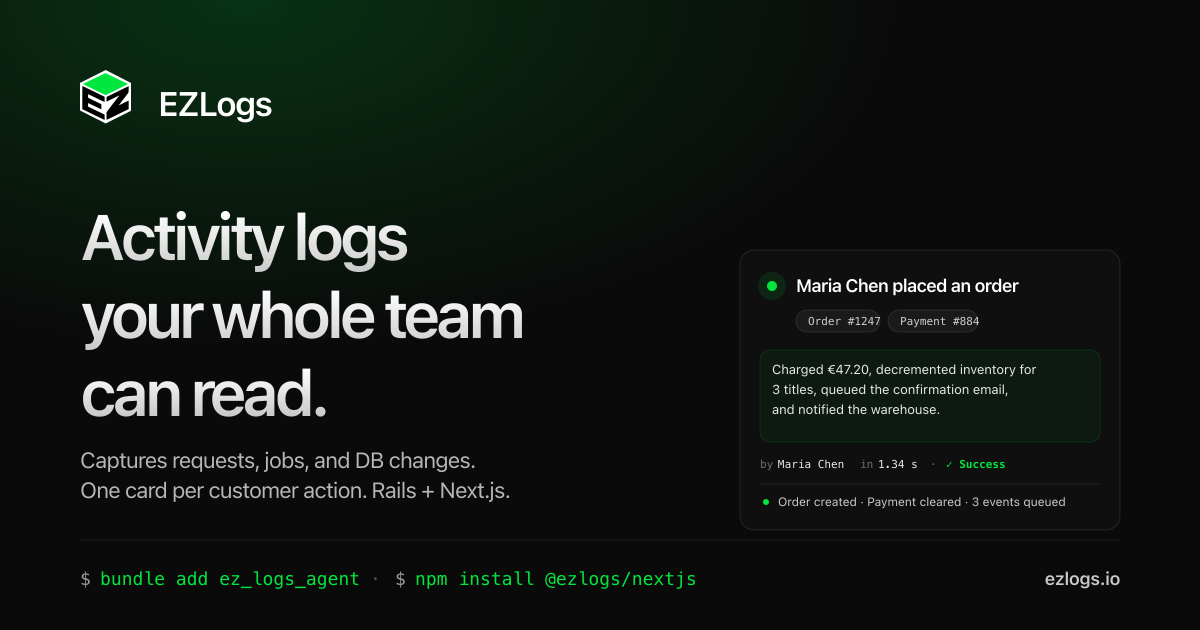
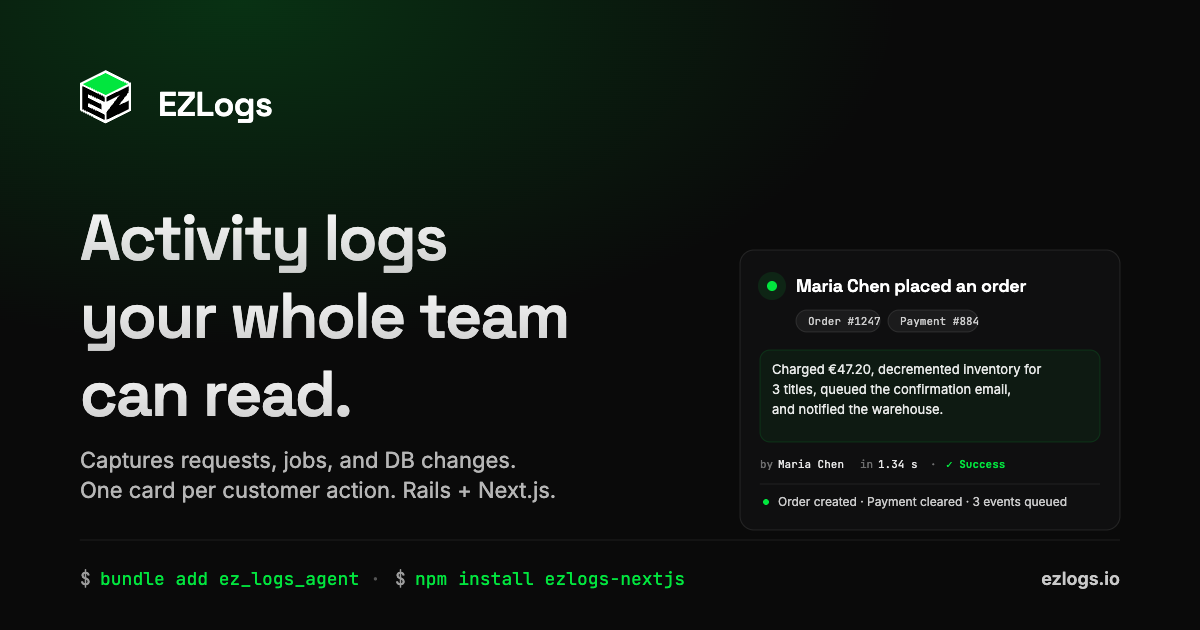
site: publish 2026-11-16 22:21 UTC

diff --git a/index.html b/index.html
@@ -140,7 +140,7 @@
         "name": "What languages and frameworks are supported today?",
         "acceptedAnswer": {
           "@type": "Answer",
-          "text": "Ruby on Rails (Sidekiq, ActiveJob, ActiveRecord) and Next.js (App Router, Pages Router, Server Actions, Prisma, Drizzle, supabase-js, BullMQ, Inngest, Trigger.dev, Upstash, Supabase Queues). FastAPI is next."
+          "text": "Ruby on Rails (Sidekiq, ActiveJob, ActiveRecord) and Next.js (App Router, Pages Router, Server Actions, Prisma, Drizzle, supabase-js, BullMQ, Inngest, Trigger.dev, Upstash, Supabase Queues)."
         }
       },
       {
@@ -156,7 +156,7 @@
         "name": "Is the AI explanation accurate?",
         "acceptedAnswer": {
           "@type": "Answer",
-          "text": "The AI only writes sentences using the structured events your app actually sent. It never invents data. If it doesn't know, it says so. Every generated explanation is cached and reproducible — re-running the same action produces the same words."
+          "text": "The cards, titles, and timeline are built without AI. AI is optional and only writes the extra explanation, using the structured events your app actually sent. It never invents data. If it doesn't know, it says so. Every generated explanation is cached and reproducible — re-running the same action produces the same words."
         }
       },
       {
@@ -1275,7 +1275,7 @@
         </div>
 
         <ol class="ez-ba__events">
-          <li class="http"><time>14:02:11</time> <strong>POST /orders</strong> <em>— 200, 89 ms</em></li>
+          <li class="http"><time>14:02:11</time> <strong>POST /orders</strong> <em>— 302, 89 ms</em></li>
           <li class="db"><time>14:02:11</time> <strong>Order #1247</strong> created</li>
           <li class="db"><time>14:02:11</time> <strong>Order Item &times;3</strong> created</li>
           <li class="job"><time>14:02:12</time> <strong>ChargeCardJob</strong> started</li>
@@ -1336,7 +1336,7 @@
   <section class="section section--alt">
     <div class="section__inner">
       <div class="section__head">
-        <span class="section__eyebrow"><span class="num">02b</span>Connect your AI</span>
+        <span class="section__eyebrow"><span class="num">03</span>Connect your AI</span>
         <h2 class="section__title section__title--wide">Same activity log. The way each person reads it.</h2>
         <p class="section__sub">Your team reads the log on a page. Your AI reads it over MCP. Paste one URL into Claude Desktop, Cursor, Claude Code, or Codex, sign in once in the browser, and your AI now reads the same activity log your team trusts &mdash; same data, same answer, with citations.</p>
       </div>
@@ -1355,9 +1355,9 @@
   <section class="section">
     <div class="section__inner">
       <div class="section__head">
-        <span class="section__eyebrow"><span class="num">02c</span>Proof</span>
+        <span class="section__eyebrow"><span class="num">04</span>Proof</span>
         <h2 class="section__title section__title--wide">This is what your team sees on day one.</h2>
-        <p class="section__sub">Six real screens from a real company ("ACME-INC") after one week of using EZLogs. No mockups, no marketing edits &mdash; this is the product.</p>
+        <p class="section__sub">Six screens from a working EZLogs account ("ACME-INC") after one week of use. No mockups, no marketing edits &mdash; this is the product.</p>
       </div>
 
       <div class="proof">
@@ -1434,7 +1434,7 @@
   <section class="section section--alt">
     <div class="section__inner">
       <div class="section__head">
-        <span class="section__eyebrow"><span class="num">02d</span>Ask your product</span>
+        <span class="section__eyebrow"><span class="num">05</span>Ask your product</span>
         <h2 class="section__title section__title--wide">Ask once. It watches the answer for you.</h2>
         <p class="section__sub">Pin a question in plain English &mdash; no metric to name, no query to write, no threshold to set. EZLogs watches the real events and tells you the moment the answer changes, with the evidence one click away. Everyone gets the answer they care about, on their own channel.</p>
       </div>
@@ -1706,7 +1706,7 @@
   <section class="section" id="action">
     <div class="section__inner">
       <div class="section__head">
-        <span class="section__eyebrow"><span class="num">03</span>The product</span>
+        <span class="section__eyebrow"><span class="num">06</span>The product</span>
         <h2 class="section__title section__title--wide">This is one customer placing an order.</h2>
         <p class="section__sub">Read it top to bottom. No log files, no grepping, no engineers needed. The live card below is real product UI.</p>
       </div>
@@ -2099,7 +2099,7 @@
         <span class="ez-details-label-open">Hide events</span>
       </summary>
       <ol class="ez-events">
-        <li class="is-http"><time>14:02:11.083</time> <strong>POST /orders</strong> <em>— 200, 89 ms, Maria Chen</em></li>
+        <li class="is-http"><time>14:02:11.083</time> <strong>POST /orders</strong> <em>— 302, 89 ms, Maria Chen</em></li>
         <li class="is-db"><time>14:02:11.087</time> <strong>Order #1247</strong> created <em>— status: <code>pending</code></em></li>
         <li class="is-db"><time>14:02:11.089</time> <strong>Order Item &times;3</strong> created <em>— Snow Crash, Babel, A Wizard of Earthsea</em></li>
         <li class="is-db"><time>14:02:11.092</time> <strong>Cart #92</strong> emptied</li>
@@ -2124,7 +2124,7 @@
   <section class="section section--alt" id="install">
     <div class="section__inner">
       <div class="section__head">
-        <span class="section__eyebrow"><span class="num">04</span>Install</span>
+        <span class="section__eyebrow"><span class="num">07</span>Install</span>
         <h2 class="section__title section__title--narrow">Two stacks. One install.</h2>
         <p class="section__sub">Drop the agent in. Restart. Done. No per-route code, no SDK to learn.</p>
       </div>
@@ -2217,6 +2217,7 @@
     font-size: 11.5px;
     color: var(--faint);
   }
+  .ez-codeblock__head span:last-child { white-space: nowrap; }
   .ez-codeblock pre {
     margin: 0;
     font-family: var(--mono);
@@ -2242,6 +2243,12 @@
   .ez-tabs__caption strong {
     color: var(--text);
     font-weight: 600;
+  }
+  .ez-tabs__caption code {
+    font-family: var(--mono);
+    font-size: 12.5px;
+    color: var(--text);
+    white-space: nowrap;
   }
   .ez-tabs__more {
     margin-top: 20px;
@@ -2281,17 +2288,22 @@
   <!-- Ruby panel -->
   <div class="ez-tabs__panel ez-tabs__panel--ruby" role="tabpanel" aria-label="Ruby on Rails install">
     <div class="ez-codeblock">
-      <div class="ez-codeblock__head"><span>terminal</span><span>1 line</span></div>
-<pre><span class="o">$</span> <span class="k">bundle</span> <span class="p">add</span> <span class="v">ez_logs_agent</span></pre>
+      <div class="ez-codeblock__head"><span>terminal</span><span>2 lines</span></div>
+<pre><span class="o">$</span> <span class="k">bundle</span> <span class="p">add</span> <span class="v">ez_logs_agent</span>
+<span class="o">$</span> <span class="k">rails</span> <span class="p">generate</span> <span class="v">ez_logs_agent:install</span></pre>
     </div>
     <div class="ez-codeblock">
-      <div class="ez-codeblock__head"><span>config/initializers/ezlogs.rb</span><span>3 lines</span></div>
-<pre><span class="v">EzLogs</span>.<span class="k">configure</span> <span class="k">do</span> |c|
-  c.api_key = <span class="v">ENV</span>[<span class="s">"EZLOGS_API_KEY"</span>]
+      <div class="ez-codeblock__head"><span>config/initializers/ez_logs_agent.rb</span><span>4 lines</span></div>
+<pre><span class="v">EzLogsAgent</span>.<span class="k">configure</span> <span class="k">do</span> |config|
+  config.server_url = <span class="s">"https://app.ezlogs.io"</span>
+  config.project_token = <span class="s">"ezl_your_api_key_here"</span>
 <span class="k">end</span></pre>
     </div>
     <p class="ez-tabs__caption">
-      Auto-captures HTTP, <strong>Sidekiq / ActiveJob</strong>, and ActiveRecord changes. Zero per-controller code.
+      Auto-captures HTTP, <strong>Sidekiq / ActiveJob</strong>, ActiveRecord changes, and bulk SQL. Zero per-controller code.
+    </p>
+    <p class="ez-tabs__more">
+      <a href="https://github.com/dezsirazvan/ez_logs_agent" target="_blank" rel="noopener">Read the full Rails setup guide →</a>
     </p>
   </div>
 
@@ -2302,18 +2314,36 @@
 <pre><span class="o">$</span> <span class="k">npm</span> <span class="p">install</span> <span class="v">ezlogs-nextjs</span></pre>
     </div>
     <div class="ez-codeblock">
-      <div class="ez-codeblock__head"><span>next.config.ts</span><span>2 lines</span></div>
+      <div class="ez-codeblock__head"><span>instrumentation.ts</span><span>10 lines</span></div>
+<pre><span class="k">import</span> { ezlogs } <span class="k">from</span> <span class="s">"ezlogs-nextjs"</span>;
+
+<span class="k">export async function</span> <span class="g">register</span>() {
+  <span class="k">if</span> (process.env.NEXT_RUNTIME === <span class="s">"nodejs"</span>) {
+    ezlogs.<span class="g">init</span>({
+      serverUrl: process.env.EZLOGS_SERVER_URL!,
+      projectToken: process.env.EZLOGS_PROJECT_TOKEN!,
+    });
+  }
+}</pre>
+    </div>
+    <div class="ez-codeblock">
+      <div class="ez-codeblock__head"><span>next.config.mjs</span><span>3 lines</span></div>
 <pre><span class="k">import</span> { withEzlogsConfig } <span class="k">from</span> <span class="s">"ezlogs-nextjs/plugin"</span>;
-<span class="k">export default</span> <span class="g">withEzlogsConfig</span>({});</pre>
+<span class="k">const</span> nextConfig = { <span class="c">/* your options */</span> };
+<span class="k">export default</span> <span class="g">withEzlogsConfig</span>(nextConfig);</pre>
+    </div>
+    <div class="ez-codeblock">
+      <div class="ez-codeblock__head"><span>.env.local</span><span>2 lines</span></div>
+<pre><span class="v">EZLOGS_SERVER_URL</span>=https://app.ezlogs.io
+<span class="v">EZLOGS_PROJECT_TOKEN</span>=ezl_your_api_key_here</pre>
     </div>
     <p class="ez-tabs__caption">
-      Auto-captures <strong>HTTP, Server Actions, and Postgres changes</strong> (via triggers). Works with App Router, Pages Router, Turbopack, Webpack.
+      Auto-captures <strong>HTTP, Server Actions, and background jobs</strong>. For Postgres changes, run <code>npx ezlogs-nextjs install-triggers</code> once. Works with App Router, Pages Router, Turbopack, Webpack.
+    </p>
+    <p class="ez-tabs__more">
+      <a href="https://github.com/dezsirazvan/ez_logs_agent_nextjs" target="_blank" rel="noopener">Read the full Next.js setup guide →</a>
     </p>
   </div>
-
-  <p class="ez-tabs__more">
-    <a href="https://github.com/dezsirazvan/ez_logs_agent" target="_blank" rel="noopener">Read the full setup guide →</a>
-  </p>
 </div>
 </div>
     </div>
@@ -2323,7 +2353,7 @@
   <section class="section">
     <div class="section__inner">
       <div class="section__head">
-        <span class="section__eyebrow"><span class="num">05</span>Who it&rsquo;s for</span>
+        <span class="section__eyebrow"><span class="num">08</span>Who it&rsquo;s for</span>
         <h2 class="section__title section__title--wide">Built so anyone in your company can read it.</h2>
         <p class="section__sub">Engineers ship it. Founders, support, and PMs read it. One shared vocabulary for what the product is doing.</p>
       </div>
@@ -2448,7 +2478,7 @@
   <section class="section" id="faq">
     <div class="section__inner">
       <div class="section__head">
-        <span class="section__eyebrow"><span class="num">06</span>FAQ</span>
+        <span class="section__eyebrow"><span class="num">09</span>FAQ</span>
         <h2 class="section__title section__title--narrow">Questions, answered.</h2>
         <p class="section__sub">The things people actually ask. Click any to expand.</p>
       </div>
@@ -2592,7 +2622,7 @@
 
   <details>
     <summary>What languages and frameworks are supported today? <span class="ez-faq__plus" aria-hidden="true"></span></summary>
-    <p class="ez-faq__answer">Ruby on Rails (Sidekiq, ActiveJob, ActiveRecord) and Next.js (App Router, Pages Router, Server Actions, Prisma, Drizzle, supabase-js, BullMQ, Inngest, Trigger.dev, Upstash, Supabase Queues). FastAPI is next.</p>
+    <p class="ez-faq__answer">Ruby on Rails (Sidekiq, ActiveJob, ActiveRecord) and Next.js (App Router, Pages Router, Server Actions, Prisma, Drizzle, supabase-js, BullMQ, Inngest, Trigger.dev, Upstash, Supabase Queues).</p>
   </details>
 
   <details>
@@ -2602,7 +2632,7 @@
 
   <details>
     <summary>Is the AI explanation accurate? <span class="ez-faq__plus" aria-hidden="true"></span></summary>
-    <p class="ez-faq__answer">The AI only writes sentences using the structured events your app actually sent. It never invents data. If it doesn't know, it says so. Every generated explanation is cached and reproducible — re-running the same action produces the same words.</p>
+    <p class="ez-faq__answer">The cards, titles, and timeline are built without AI. AI is optional and only writes the extra explanation, using the structured events your app actually sent. It never invents data. If it doesn't know, it says so. Every generated explanation is cached and reproducible — re-running the same action produces the same words.</p>
   </details>
 
   <details>

diff --git a/nextjs/index.html b/nextjs/index.html
@@ -69,24 +69,39 @@
     <h2>What gets captured automatically</h2>
     <ul>
       <li><strong>HTTP routes</strong> (App Router + Pages Router) &mdash; method, path, status, duration, requesting user if your app exposes one.</li>
-      <li><strong>Server Actions</strong> &mdash; the action name, arguments, return value, success/failure.</li>
-      <li><strong>Postgres changes</strong> via lightweight database triggers &mdash; table, primary key, operation, redacted before/after column values. Works with Prisma, Drizzle, supabase-js, Kysely, raw SQL.</li>
+      <li><strong>Server Actions</strong> &mdash; the action name, arguments, success or failure.</li>
+      <li><strong>Postgres changes</strong> via lightweight database triggers &mdash; table, primary key, operation, redacted before/after column values. Works with Prisma, Drizzle, supabase-js, raw SQL.</li>
       <li><strong>Background jobs</strong> via instrumentation hooks for BullMQ, Inngest, Trigger.dev, Upstash QStash, Supabase Queues.</li>
     </ul>
 
     <h2>Install in 60 seconds</h2>
     <pre><code>npm install ezlogs-nextjs</code></pre>
-    <pre><code>// next.config.ts
+    <pre><code>// instrumentation.ts
+import { ezlogs } from "ezlogs-nextjs";
+
+export async function register() {
+  if (process.env.NEXT_RUNTIME === "nodejs") {
+    ezlogs.init({
+      serverUrl: process.env.EZLOGS_SERVER_URL!,
+      projectToken: process.env.EZLOGS_PROJECT_TOKEN!,
+    });
+  }
+}</code></pre>
+    <pre><code>// next.config.mjs
 import { withEzlogsConfig } from "ezlogs-nextjs/plugin";
-export default withEzlogsConfig({});</code></pre>
-    <p>That&rsquo;s it. Restart your dev server, deploy to prod &mdash; HTTP routes, Server Actions, and DB changes start streaming into EZLogs immediately. Works with Turbopack and Webpack, App Router and Pages Router.</p>
+const nextConfig = { /* your options */ };
+export default withEzlogsConfig(nextConfig);</code></pre>
+    <pre><code># .env.local
+EZLOGS_SERVER_URL=https://app.ezlogs.io
+EZLOGS_PROJECT_TOKEN=ezl_your_api_key_here</code></pre>
+    <p>Restart your dev server. HTTP routes and Server Actions start streaming into EZLogs right away. For Postgres changes, run <code>npx ezlogs-nextjs install-triggers</code> once. Works with Turbopack and Webpack, App Router and Pages Router.</p>
 
     <h2>Works with your stack</h2>
     <ul>
-      <li><strong>ORMs / DB clients:</strong> Prisma, Drizzle, supabase-js, Kysely, raw <code>pg</code>.</li>
+      <li><strong>ORMs / DB clients:</strong> Prisma, Drizzle, supabase-js, raw <code>pg</code>.</li>
       <li><strong>Background-job runners:</strong> BullMQ, Inngest, Trigger.dev, Upstash QStash, Supabase Queues.</li>
       <li><strong>Auth:</strong> NextAuth / Auth.js (we read <code>session.user.id</code>), Clerk, Supabase Auth, custom JWT.</li>
-      <li><strong>Hosting:</strong> Vercel, Netlify, AWS, Cloudflare Workers, self-hosted Node.</li>
+      <li><strong>Hosting:</strong> Vercel, or anywhere Next.js runs on Node.</li>
     </ul>
 
     <h2>How is this different from Sentry or Datadog?</h2>
@@ -102,7 +117,7 @@ export default withEzlogsConfig({});</code></pre>
     </ul>
 
     <h2>Supported versions</h2>
-    <p>Next.js 13.4+ (App Router + Server Actions), Next.js 12+ (Pages Router). Node 18+. Postgres 13+ for trigger-based DB capture.</p>
+    <p>Next.js 14+ (App Router and Pages Router). Node 18.17+. Postgres 13+ for trigger-based DB capture.</p>
 
     <div class="doc__callout" style="text-align:center;">
       <a href="https://app.ezlogs.io/users/sign_up" target="_blank" rel="noopener" style="display:inline-block; padding:12px 22px; background:var(--green); color:#000; font-weight:600; border-radius:10px; text-decoration:none;">Start free &mdash; beta &rarr;</a>

diff --git a/blog/the-slack-message-i-built-this-to-kill/index.html b/blog/the-slack-message-i-built-this-to-kill/index.html
@@ -119,7 +119,7 @@ rails generate ez_logs_agent:install</code></pre>
 
     <p>That&rsquo;s the part the support team opens to answer &ldquo;what happened to this order?&rdquo; That&rsquo;s the part the product team reads when they want to understand a flow. That&rsquo;s the part you can paste into a Notion doc when you&rsquo;re explaining a bug to the CEO.</p>
 
-    <p>Sensitive fields are redacted by default. Anything matching <code>password</code>, <code>token</code>, <code>secret</code>, <code>key</code>, or any <code>*_at</code> timestamp column is dropped before the event leaves your process. You can extend the redaction list in the initializer. The reason redaction is on by default and not opt-in is that the audience for the card is the whole company. If the CS lead has to wonder whether a card is safe to send to the CEO, the gem has already failed.</p>
+    <p>Sensitive fields are redacted by default. Anything matching <code>password</code>, <code>token</code>, <code>secret</code>, or <code>key</code> is dropped before the event leaves your process. You can extend the redaction list in the initializer. The reason redaction is on by default and not opt-in is that the audience for the card is the whole company. If the CS lead has to wonder whether a card is safe to send to the CEO, the gem has already failed.</p>
 
     <p>It&rsquo;s not metrics. It&rsquo;s not APM. It doesn&rsquo;t replace Datadog and doesn&rsquo;t try to. If you want p99 latency graphs, this is the wrong tool. If you want logs your CS team can read without asking an engineer, that&rsquo;s the whole pitch.</p>
 
@@ -152,7 +152,7 @@ config.project_token = ENV["EZLOGS_API_KEY"]</code></pre>
     <p>If your support team currently pings engineering to translate logs, I&rsquo;d like to hear how they ask, how often, and what about the answer they get back today hurts the most. Reply on Hacker News if this is on the front page when you read it. Email me at <a href="mailto:hello@ezlogs.io">hello@ezlogs.io</a> if it isn&rsquo;t. The next people who try EZLogs shape what ships in 0.2.0, and the next person who installs the gem should not have to figure out which URL goes where.</p>
 
     <div class="doc__callout" style="text-align:center; margin-top:48px;">
-      <a href="https://app.ezlogs.io/users/sign_up" target="_blank" rel="noopener" style="display:inline-block; padding:12px 22px; background:var(--green); color:#000; font-weight:600; border-radius:10px; text-decoration:none;">Try EZLogs &mdash; 14 days, no card &rarr;</a>
+      <a href="https://app.ezlogs.io/users/sign_up" target="_blank" rel="noopener" style="display:inline-block; padding:12px 22px; background:var(--green); color:#000; font-weight:600; border-radius:10px; text-decoration:none;">Try EZLogs &mdash; free during beta, no card &rarr;</a>
       <p style="margin:14px 0 0; font-size:13px; color:var(--faint);">Or read the docs at <a href="/rails/">ezlogs.io/rails</a>. Or just <code>bundle add ez_logs_agent</code> and see what happens.</p>
     </div>
 

diff --git a/ai-agent-activity-log/index.html b/ai-agent-activity-log/index.html
@@ -64,7 +64,7 @@
   <main class="doc">
     <p class="doc__eyebrow">AI agent activity log</p>
     <h1>The activity log for AI work inside your app.</h1>
-    <p class="doc__lead">By end of 2026, AI agents will do 30&ndash;60% of meaningful work inside production apps. Nobody has a clean way to see that work happening, explain it to non-technical colleagues, or let the AI itself answer "what did I do yesterday?". EZLogs is built for exactly that.</p>
+    <p class="doc__lead">AI agents now do real work inside production apps. Nobody has a clean way to see that work happening, explain it to non-technical colleagues, or let the AI itself answer "what did I do yesterday?". EZLogs is built for exactly that.</p>
 
     <h2>What it does</h2>
     <p>The EZLogs agent drops into your Rails or Next.js app and captures every HTTP request, every background job, and every database change &mdash; whether the actor is a human user, a system process, or an AI agent. EZLogs correlates those events into a single &ldquo;action&rdquo; per business event, then renders each action as a plain-English card:</p>
@@ -92,17 +92,34 @@
     <p>One gem (Rails) or one npm package (Next.js). Zero per-route code, zero per-agent instrumentation.</p>
 
     <h3>Rails</h3>
-    <pre><code>bundle add ez_logs_agent</code></pre>
-    <pre><code># config/initializers/ezlogs.rb
-EzLogs.configure do |c|
-  c.api_key = ENV["EZLOGS_API_KEY"]
+    <pre><code>bundle add ez_logs_agent
+rails generate ez_logs_agent:install</code></pre>
+    <pre><code># config/initializers/ez_logs_agent.rb
+EzLogsAgent.configure do |config|
+  config.server_url = "https://app.ezlogs.io"
+  config.project_token = "ezl_your_api_key_here"
 end</code></pre>
 
     <h3>Next.js</h3>
     <pre><code>npm install ezlogs-nextjs</code></pre>
-    <pre><code>// next.config.ts
+    <pre><code>// instrumentation.ts
+import { ezlogs } from "ezlogs-nextjs";
+
+export async function register() {
+  if (process.env.NEXT_RUNTIME === "nodejs") {
+    ezlogs.init({
+      serverUrl: process.env.EZLOGS_SERVER_URL!,
+      projectToken: process.env.EZLOGS_PROJECT_TOKEN!,
+    });
+  }
+}</code></pre>
+    <pre><code>// next.config.mjs
 import { withEzlogsConfig } from "ezlogs-nextjs/plugin";
-export default withEzlogsConfig({});</code></pre>
+const nextConfig = { /* your options */ };
+export default withEzlogsConfig(nextConfig);</code></pre>
+    <pre><code># .env.local
+EZLOGS_SERVER_URL=https://app.ezlogs.io
+EZLOGS_PROJECT_TOKEN=ezl_your_api_key_here</code></pre>
 
     <p>Restart. Every HTTP request, every job, every DB change &mdash; including everything your AI agents do &mdash; starts flowing into EZLogs immediately.</p>
 

diff --git a/rails/index.html b/rails/index.html
@@ -75,12 +75,14 @@
     <p>Events are correlated by request ID, current user, and resource ID. Each customer action becomes one card, not a wall of logs.</p>
 
     <h2>Install in 60 seconds</h2>
-    <pre><code>bundle add ez_logs_agent</code></pre>
-    <pre><code># config/initializers/ezlogs.rb
-EzLogs.configure do |c|
-  c.api_key = ENV["EZLOGS_API_KEY"]
+    <pre><code>bundle add ez_logs_agent
+rails generate ez_logs_agent:install</code></pre>
+    <pre><code># config/initializers/ez_logs_agent.rb
+EzLogsAgent.configure do |config|
+  config.server_url = "https://app.ezlogs.io"
+  config.project_token = "ezl_your_api_key_here"
 end</code></pre>
-    <p>That&rsquo;s it. Restart your app. No per-controller code, no model concerns, no per-job wrapper. The gem hooks into Rails&rsquo; existing instrumentation.</p>
+    <p>Set your API key, then restart your app. No per-controller code, no model concerns, no per-job wrapper. The gem hooks into Rails&rsquo; existing instrumentation.</p>
 
     <h2>How is this different from PaperTrail or Audited?</h2>
     <p>PaperTrail and Audited are model-versioning gems &mdash; they let you go back and inspect a row at a given timestamp. They are great at that and EZLogs does not try to replace them. EZLogs is solving a different problem: <strong>tell me, in plain English, what one customer (or one AI agent) actually did in my app today</strong> &mdash; HTTP + jobs + DB stitched together, summarized in a sentence, readable by anyone in the company. PaperTrail+Audited gives you the rows. EZLogs gives you the story.</p>
@@ -92,7 +94,7 @@ end</code></pre>
     <ul>
       <li><strong>Out-of-band:</strong> events buffered in memory, shipped over a separate connection. Average overhead under 1 ms per request in benchmarks.</li>
       <li><strong>Fails open:</strong> if EZLogs is unreachable, the agent buffers up to 10,000 events and retries. If the buffer overflows, oldest events drop. The agent <em>never</em> raises into your request path.</li>
-      <li><strong>Field-level redaction</strong> on by default for <code>password</code>, <code>token</code>, <code>secret</code>, <code>key</code>, <code>*_at</code> columns.</li>
+      <li><strong>Field-level redaction</strong> on by default for passwords, tokens, secrets, API keys, and card numbers.</li>
       <li><strong>Open source</strong> at <a href="https://github.com/dezsirazvan/ez_logs_agent" target="_blank" rel="noopener">github.com/dezsirazvan/ez_logs_agent</a>. Pin to a SHA, audit the code.</li>
     </ul>
 

diff --git a/subprocessors/index.html b/subprocessors/index.html
@@ -53,7 +53,7 @@
           <td>Germany (EU)</td>
         </tr>
         <tr>
-          <td><strong>Stripe Payments Europe, Ltd.</strong> (only if paid plans are introduced)<br><a href="https://stripe.com/privacy" target="_blank" rel="noopener">Privacy</a> &middot; <a href="https://stripe.com/dpa" target="_blank" rel="noopener">DPA</a></td>
+          <td><strong>Stripe Payments Europe, Ltd.</strong> (only if paid plans are introduced)<br><a href="https://stripe.com/privacy" target="_blank" rel="noopener">Privacy</a> &middot; <a href="https://stripe.com/legal/dpa" target="_blank" rel="noopener">DPA</a></td>
           <td>Subscription billing, payment processing, tax calculation</td>
           <td>Billing email, VAT ID (if provided), card metadata (last 4, brand, country) &mdash; we never see full card numbers</td>
           <td>Ireland (EU), US (with SCCs)</td>

diff --git a/assets/css/subpage.css b/assets/css/subpage.css
@@ -142,6 +142,13 @@ a:hover { text-decoration: underline; }
   padding: 1px 6px;
   color: var(--text);
 }
+/* Long code lines scroll inside the block instead of widening the page on phones. */
+.doc pre {
+  overflow-x: auto;
+  max-width: 100%;
+}
+.doc pre code { display: block; width: max-content; min-width: 100%; box-sizing: border-box; }
+.doc th, .doc td, .doc a { overflow-wrap: anywhere; }
 .doc table {
   width: 100%;
   border-collapse: collapse;
